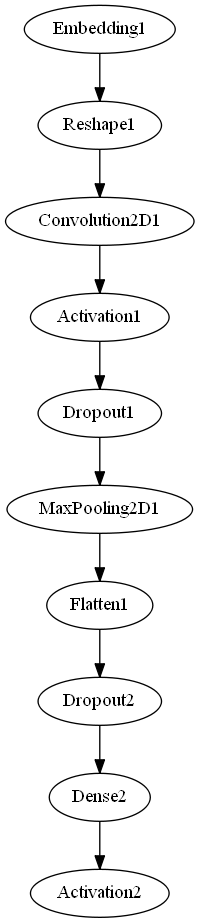
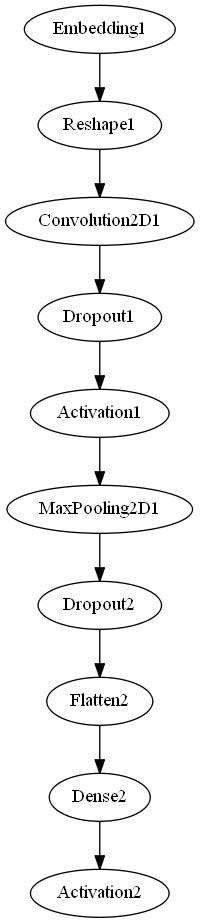
add Q and A files

diff --git a/dan.py b/dan.py
@@ -203,14 +203,14 @@ def cnn_optimise(W):
     # first convolutional layer
     model.add(Convolution2D(N_fm, kernel_size, conv_input_width, border_mode='valid', W_regularizer=l2(0.0001)))
     # ReLU activation
-    model.add(Activation('relu'))
     model.add(Dropout(0.5))
+    model.add(Activation('relu'))
 
     # aggregate data in every feature map to scalar using MAX operation
     model.add(MaxPooling2D(pool_size=(conv_input_height-kernel_size+1, 1), border_mode='valid'))
-
-    model.add(Flatten())
     model.add(Dropout(0.5))
+    model.add(Flatten())
+
     # Inner Product layer (as in regular neural network, but without non-linear activation function)
     model.add(Dense(input_dim=N_fm, output_dim=1))
     # SoftMax activation; actually, Dense+SoftMax works as Multinomial Logistic Regression
@@ -281,7 +281,7 @@ def SA_sst():
     model.compile(loss='binary_crossentropy', optimizer='adagrad', class_mode="binary")
 
     print("Train...")
-    model.fit(X_train, y_train, batch_size=batch_size, nb_epoch=2, validation_data=(X_test, y_test), show_accuracy=True)
+    model.fit(X_train, y_train, batch_size=batch_size, nb_epoch=30, validation_data=(X_test, y_test), show_accuracy=True)
     score, acc = model.evaluate(X_test, y_test, batch_size=batch_size, show_accuracy=True)
     print('Test score:', score)
     print('Test accuracy:', acc)

diff --git a/README.md b/README.md
@@ -173,7 +173,7 @@ Note that all the data are separated into training, validation and testing data 
 
 ##### Experiment result
 
-Model visualization: [PNG](./images/model.png)
+Model visualization: [model.png](./images/model.png)
 
 DAN for binary SA:
 
